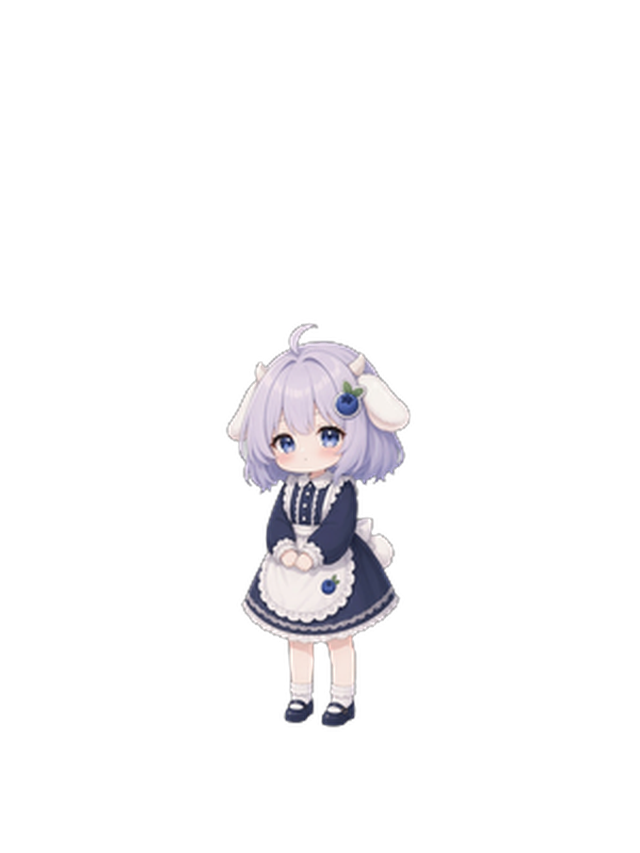
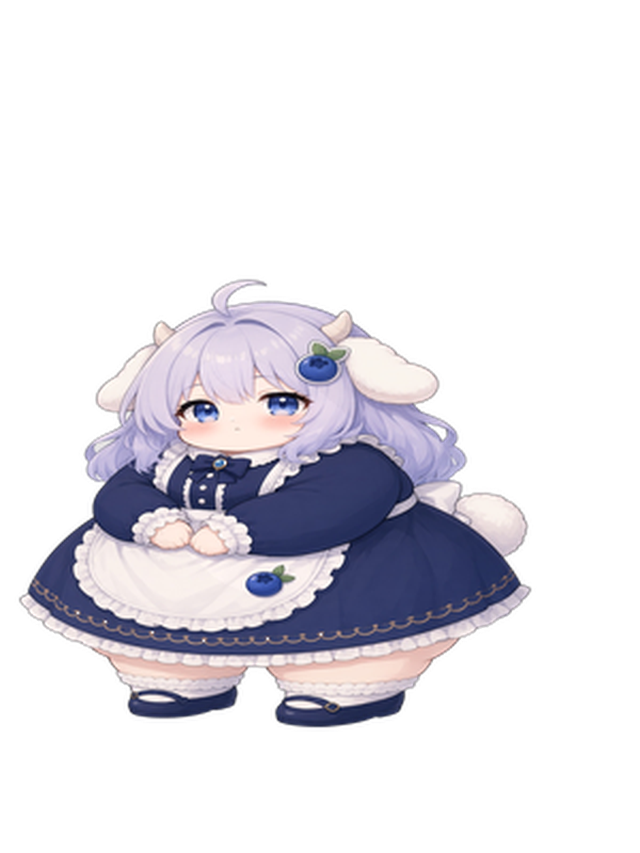
实验室：台上小莓换成 fish_ref_v1，演员宽 195→260 (#50)
成片清单是 artFamily，舞台仍把它折成自己的 idle/stretch/walk。只加宽小莓，鱼的 petSize 仍是 462。

Changed region(s): [[0.0312, 0.3048, 0.8438, 0.8535]]

diff --git a/public/dafeiyu/helper/character-slot.js b/public/dafeiyu/helper/character-slot.js
@@ -13,12 +13,13 @@
  *            {id:"breath-1",src:"/characters/xiaomei/breath-1.webp"}],
  *   note:"小莓站在台上。" }
  * src 只能是 /characters/xiaomei/ 下的 webp、png、svg。stretch / walk 可以先写进清单，台上先不轮播。
+ * 另一份成片是 artFamily "xiaomei-samebody-v1"：activities 只有 idle/stretch/walk，frames 指向同目录 webp。
  */
 var FALLBACK_LABEL = "小莓";
 var FALLBACK_IDENTITY = "银紫发 · 绵羊耳 · 女仆围裙";
 var FALLBACK_NOTE = "空包。等小莓自己的 SameBody 成片。";
-// 立绘 640×853。195px 宽时画面高 195×853/640≈260，对齐大肥鱼默认视频高 259.875。
-var ACTOR_WIDTH = 195;
+// 立绘 640×853。小莓演员宽 260，画面高 260×853/640≈347。鱼的 petSize 仍是 462。
+var ACTOR_WIDTH = 260;
 var BREATH_FRAME_MS = 1600;
 var MOUNT_WAIT_MS = 4000;
 var STRETCH_MS = 700;
@@ -121,9 +122,63 @@ function breathRank(id) {
   return Number.isFinite(n) ? n : 99;
 }
 
+var ART_FRAME_FILE = /^[a-z0-9][a-z0-9-]*\.webp$/;
+var ART_ACTIVITIES = { idle: true, stretch: true, walk: true };
+
+/** artFamily 清单折成原来的成片包。对不上就返回 null。 */
+function artFamilyPack(data) {
+  if (!data || data.artFamily !== "xiaomei-samebody-v1") return null;
+  var slot = data.reskinSlot;
+  if (!slot || slot.id !== "xiaomei" || slot.status !== "ready") return null;
+  var activities = data.activities;
+  if (!Array.isArray(activities) || activities.length !== 3) return null;
+  var seen = Object.create(null);
+  for (var i = 0; i < activities.length; i += 1) {
+    var name = activities[i];
+    if (!ART_ACTIVITIES[name] || seen[name]) return null;
+    seen[name] = true;
+  }
+  var frames = data.frames;
+  if (!frames || typeof frames !== "object" || Array.isArray(frames)) return null;
+  var locks = data.identityLocks;
+  if (!Array.isArray(locks)) return null;
+  if (locks.indexOf("sheepEars") === -1 || locks.indexOf("silverLilacHair") === -1 || locks.indexOf("maidApronBlueberry") === -1) {
+    return null;
+  }
+  var sources = [];
+  var order = ["idle", "stretch", "walk"];
+  for (var j = 0; j < order.length; j += 1) {
+    var id = order[j];
+    var file = frames[id];
+    if (typeof file !== "string" || !ART_FRAME_FILE.test(file)) return null;
+    sources.push({ id: id, src: "/characters/xiaomei/" + file });
+  }
+  return {
+    id: "xiaomei",
+    label: FALLBACK_LABEL,
+    status: "ready",
+    body: "raster-samebody",
+    identity: ["银紫发", "绵羊耳", "女仆围裙"],
+    animations: {},
+    sources: sources,
+    note: "小莓站在台上。",
+  };
+}
+
 /** 成片帧计划。不合格就返回 null，调用方继续画空包。 */
 function sameBodyPlan(data) {
   if (!data || typeof data !== "object") return null;
+  var rawBlob;
+  try {
+    rawBlob = JSON.stringify(data);
+  } catch {
+    return null;
+  }
+  if (bannedPackText(rawBlob)) return null;
+  if (data.artFamily != null) {
+    data = artFamilyPack(data);
+    if (!data) return null;
+  }
   if (data.id !== "xiaomei" || data.status !== "ready" || data.body !== "raster-samebody") return null;
   if (data.label != null && data.label !== FALLBACK_LABEL) return null;
   if (data.note != null && typeof data.note !== "string") return null;
@@ -234,7 +289,7 @@ var SLOT_CSS = [
   ".berryice-slot-figure svg{display:block;width:100%;height:auto}",
   ".berryice-slot-name{margin:0;font-size:15px;letter-spacing:.14em}",
   ".berryice-slot-line{margin:0;font-size:12px;line-height:1.5;opacity:.72}",
-  ".berryice-actor{position:relative;width:min(72vw,195px);touch-action:none;pointer-events:auto;cursor:grab;user-select:none}",
+  ".berryice-actor{position:relative;width:min(72vw,260px);touch-action:none;pointer-events:auto;cursor:grab;user-select:none}",
   ".berryice-actor[data-dragging='1']{cursor:grabbing}",
   ".berryice-ground{position:absolute;left:50%;bottom:2px;width:68%;height:14px;transform:translateX(-50%);",
   "background:radial-gradient(ellipse at center, rgba(150,196,214,.45), rgba(150,196,214,0) 72%);pointer-events:none}",

diff --git a/lib/dafeiyu/xiaomei-pack.ts b/lib/dafeiyu/xiaomei-pack.ts
@@ -5,9 +5,11 @@
 
 const FALLBACK_LABEL = "小莓";
 const FALLBACK_IDENTITY = "银紫发 · 绵羊耳 · 女仆围裙";
-/** 与 character-slot.js 同一数。640×853 在此宽度下高约 260。 */
-const ACTOR_WIDTH = 195;
+/** 与 character-slot.js 同一数。640×853 在此宽度下高约 347。 */
+const ACTOR_WIDTH = 260;
 const SOURCE_SRC = /^\/characters\/xiaomei\/[a-z0-9][a-z0-9-]*\.(webp|png|svg)$/;
+const ART_FRAME_FILE = /^[a-z0-9][a-z0-9-]*\.webp$/;
+const ART_ACTIVITIES = new Set(["idle", "stretch", "walk"]);
 
 export type XiaomeiSameBodyPlan = {
   width: number;
@@ -59,9 +61,67 @@ function breathRank(id: string): number {
   return Number.isFinite(n) ? n : 99;
 }
 
+function artFamilyPack(data: object): object | null {
+  const art = data as {
+    artFamily?: unknown;
+    activities?: unknown;
+    frames?: unknown;
+    identityLocks?: unknown;
+    reskinSlot?: { id?: unknown; status?: unknown } | null;
+  };
+  if (art.artFamily !== "xiaomei-samebody-v1") return null;
+  const slot = art.reskinSlot;
+  if (!slot || slot.id !== "xiaomei" || slot.status !== "ready") return null;
+  if (!Array.isArray(art.activities) || art.activities.length !== 3) return null;
+  const seen = new Set<string>();
+  for (const name of art.activities) {
+    if (typeof name !== "string" || !ART_ACTIVITIES.has(name) || seen.has(name)) return null;
+    seen.add(name);
+  }
+  if (!art.frames || typeof art.frames !== "object" || Array.isArray(art.frames)) return null;
+  const frameMap = art.frames as Record<string, unknown>;
+  if (!Array.isArray(art.identityLocks)) return null;
+  if (
+    !art.identityLocks.includes("sheepEars") ||
+    !art.identityLocks.includes("silverLilacHair") ||
+    !art.identityLocks.includes("maidApronBlueberry")
+  ) {
+    return null;
+  }
+  const sources = [];
+  for (const id of ["idle", "stretch", "walk"] as const) {
+    const file = frameMap[id];
+    if (typeof file !== "string" || !ART_FRAME_FILE.test(file)) return null;
+    sources.push({ id, src: `/characters/xiaomei/${file}` });
+  }
+  return {
+    id: "xiaomei",
+    label: FALLBACK_LABEL,
+    status: "ready",
+    body: "raster-samebody",
+    identity: ["银紫发", "绵羊耳", "女仆围裙"],
+    animations: {},
+    sources,
+    note: "小莓站在台上。",
+  };
+}
+
 export function xiaomeiSameBodyPlan(data: unknown): XiaomeiSameBodyPlan | null {
   if (!data || typeof data !== "object") return null;
-  const pack = data as {
+  let rawBlob: string;
+  try {
+    rawBlob = JSON.stringify(data);
+  } catch {
+    return null;
+  }
+  if (bannedPackText(rawBlob)) return null;
+  let source: object = data;
+  if ("artFamily" in data && (data as { artFamily?: unknown }).artFamily != null) {
+    const packed = artFamilyPack(data);
+    if (!packed) return null;
+    source = packed;
+  }
+  const pack = source as {
     id?: unknown;
     status?: unknown;
     body?: unknown;
